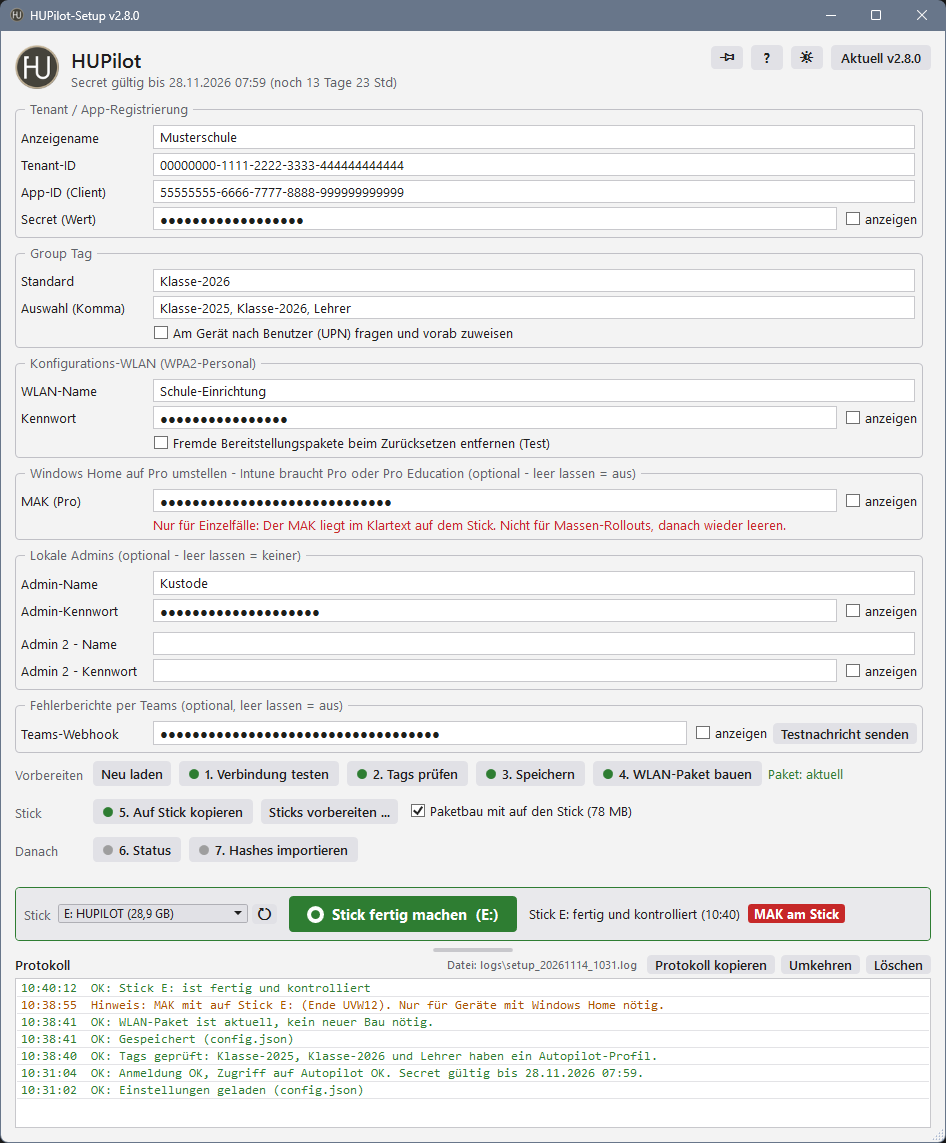
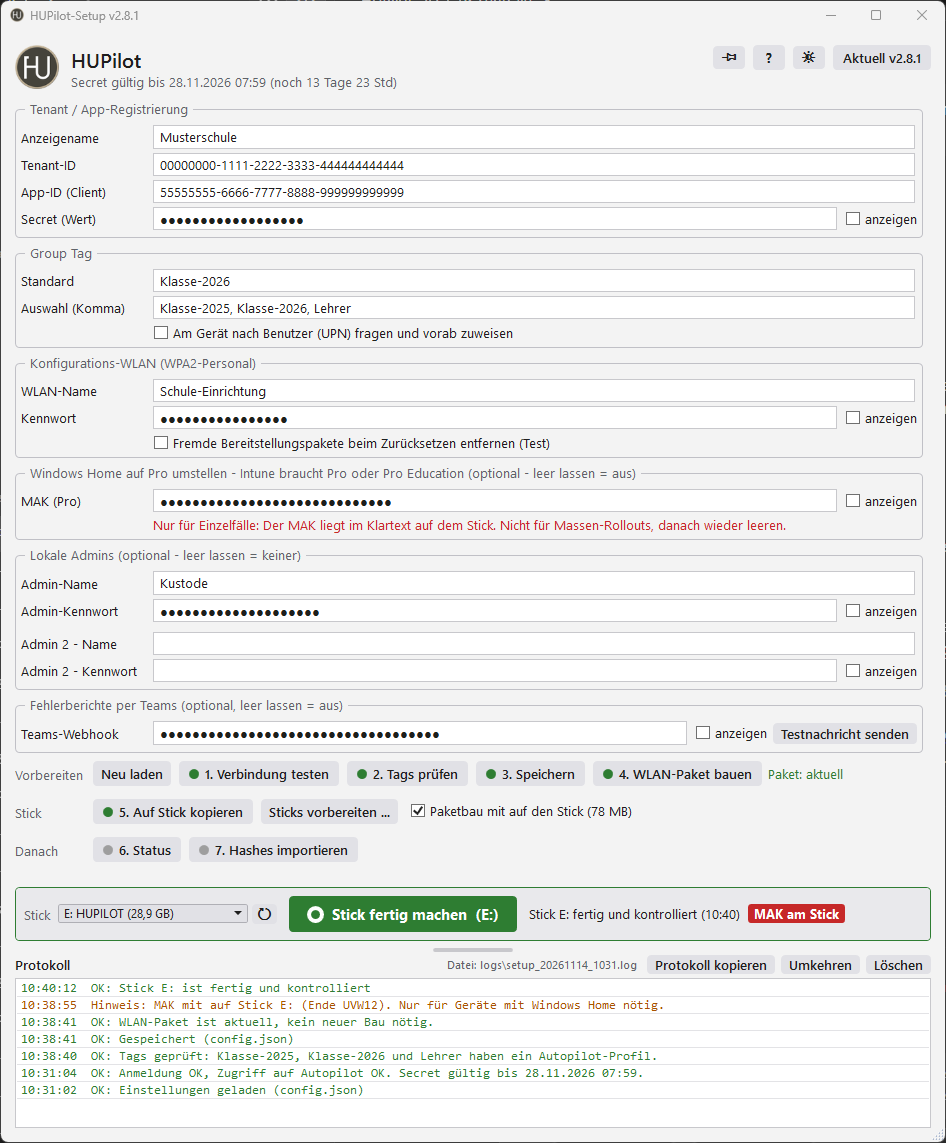
v2.8.1: Frisch registriert ist kein Problem, Stand heißt Kein Profil für diesen Group Tag (#26)
Frisch registrierte Geräte zeigen im Status "Wartet auf Profil" statt rot ein Problem, wenn der Eintrag im Stick-Protokoll höchstens 30 Minuten alt ist.
Der Stand heißt jetzt "Kein Profil für diesen Group Tag", ebenso die Meldungen am Gerät.
README, Anleitung und Bilder angeglichen. 495 automatische Tests.

Changed region(s): [[0.0, 0.0, 1.0, 0.0612]]

diff --git a/Stick/HUPilot/Setup/Anleitung.html b/Stick/HUPilot/Setup/Anleitung.html
@@ -231,7 +231,7 @@ code{background:var(--panel2);padding:1px 6px;border-radius:5px;font-size:13px}
 <table>
 <tr><th>Farbe</th><th>Bedeutung</th></tr>
 <tr><td><span class="c" style="background:#40a02b"></span>Grün</td><td>Upload fertig, Stick abziehen</td></tr>
-<tr><td><span class="c" style="background:#df8e1d"></span>Gelb</td><td>Netzteil fehlt (wartet), Akku-Stand nicht lesbar (Netzteil anstecken, <code>J</code> = übergehen), kein Profil für den Tag (<code>A</code> = abbrechen), noch kein Profil (weiter warten), <b>Hash gespeichert</b> (offline, später <i>7. Hashes importieren</i>), Hardware-Änderung (Rückfrage), abgebrochen mit einer Taste, nur hochladen: "PROFIL DA - JETZT STICK ABZIEHEN" bzw. "NEUSTART VON HAND", wenn der Stick nach 5 Minuten noch steckt</td></tr>
+<tr><td><span class="c" style="background:#df8e1d"></span>Gelb</td><td>Netzteil fehlt (wartet), Akku-Stand nicht lesbar (Netzteil anstecken, <code>J</code> = übergehen), kein Profil für den Group Tag (<code>A</code> = abbrechen), noch kein Profil (weiter warten), <b>Hash gespeichert</b> (offline, später <i>7. Hashes importieren</i>), Hardware-Änderung (Rückfrage), abgebrochen mit einer Taste, nur hochladen: "PROFIL DA - JETZT STICK ABZIEHEN" bzw. "NEUSTART VON HAND", wenn der Stick nach 5 Minuten noch steckt</td></tr>
 <tr><td><span class="c" style="background:#1e66f5"></span>Blau</td><td>Zurücksetzen startet (erst zum nächsten Gerät, wenn es neu startet, etwa 5 Minuten), Windows wird auf Pro umgestellt</td></tr>
 <tr><td><span class="c" style="background:#d20f39"></span>Rot</td><td>Fehler, <b>nichts</b> zurückgesetzt. Ursache und nächster Schritt stehen am Bildschirm, meist: nochmal <code>D:\go</code>. Bei "Gerät ist schon eingerichtet" nur mit <code>LÖSCHEN</code> (oder <code>LOESCHEN</code>) weiter. Ausnahme "ZURÜCKSETZEN NOCH NICHT BEGONNEN": Windows hat das Zurücksetzen angenommen, es hat nach 15 Minuten aber nicht begonnen und kann noch von selbst starten. Gerät nicht benutzen, am Strom lassen, noch 15 Minuten warten; startet es nicht neu: Foto an den Admin, <code>D:\diag</code>. Bricht das Hilfsprogramm zum Zurücksetzen mittendrin ab, nennt das rote Bild, was schon verändert wurde (z. B. Hersteller-Apps entfernt, Hersteller-Ordner nach <code>C:\Recovery\HUPilot-OEM-Backup</code> verschoben).</td></tr>
 </table>
@@ -258,7 +258,7 @@ code{background:var(--panel2);padding:1px 6px;border-radius:5px;font-size:13px}
 <tr><td><span class="c" style="background:#40a02b"></span>Fertig</td><td>Nichts, das Gerät ist fertig (in Intune angemeldet).</td></tr>
 <tr><td><span class="c" style="background:#df8e1d"></span>Wartet auf Profil</td><td>Nichts, läuft. Das Profil kommt meist in 5 bis 15 Minuten. Ist es nicht synchron: Autopilot-Sync anstoßen und ein paar Minuten warten.</td></tr>
 <tr><td><span class="c" style="background:#df8e1d"></span>Profil da, Gerät noch nicht angemeldet</td><td>Gerät einschalten, mit dem WLAN verbinden und neu starten, dann meldet es sich an. Steht in der Spalte Profil "zugew., Datum fehlt": Das Profil ist zugewiesen, das Datum von Microsoft fehlt noch. Gerät neu starten, kommt die Anmeldeseite der Schule, passt es.</td></tr>
-<tr><td><span class="c" style="background:#d20f39"></span>Kein Profil für diesen Tag</td><td>Tag prüfen (<i>2. Tags prüfen</i>) oder mit <i>Tag ändern</i> einen Tag mit Profil wählen.</td></tr>
+<tr><td><span class="c" style="background:#d20f39"></span>Kein Profil für diesen Group Tag</td><td>Tag prüfen (<i>2. Tags prüfen</i>) oder mit <i>Tag ändern</i> einen Tag mit Profil wählen.</td></tr>
 <tr><td><span class="c" style="background:#d20f39"></span>Fehler</td><td>Gerät in Intune prüfen, dann mit dem Stick neu zurücksetzen. Blockiert: Admin fragen.</td></tr>
 <tr><td><span class="c" style="background:#d20f39"></span>Hardware geändert</td><td>Das Gerät kam zum Beispiel mit neuem Mainboard zurück, Microsoft kann das nicht selbst lösen. Eintrag mit <i>Autopilot-Eintrag löschen ...</i> entfernen, dann mit dem Stick neu registrieren.</td></tr>
 <tr><td><span class="c" style="background:#df8e1d"></span>Hardware wird abgeglichen</td><td>Nach unserem Verständnis versucht Microsoft die Korrektur selbst (Microsoft beschreibt das nicht eindeutig), abwarten. Bleibt es länger so: Eintrag löschen und mit dem Stick neu registrieren.</td></tr>
@@ -293,7 +293,7 @@ code{background:var(--panel2);padding:1px 6px;border-radius:5px;font-size:13px}
 <tr><td>Gerät ist in einem anderen Tenant</td><td>beim anderen Tenant oder Händler aus Autopilot entfernen lassen</td></tr>
 <tr><td>Hängt bei "Kontoeinrichtung"</td><td>SkipUserStatusPage (siehe Intune), Gerät neu starten</td></tr>
 <tr><td>Gelb "HASH GESPEICHERT"</td><td>kein Internet oder Secret abgelaufen oder falsch: Hash liegt am Stick, Gerät nicht zurückgesetzt. Am PC <i>7. Hashes importieren</i>, danach Gerät nochmal mit <code>go</code> (wird dann nur zurückgesetzt).</td></tr>
-<tr><td>Gelb "KEIN Autopilot-Profil" für den Tag</td><td>dynamische Gruppe oder Profil für den Tag fehlt: <i>2. Tags prüfen</i>. Mit <b>A</b> abbrechen oder trotzdem hochladen.</td></tr>
+<tr><td>Gelb "KEIN Autopilot-Profil" für den Group Tag</td><td>dynamische Gruppe oder Profil für den Group Tag fehlt: <i>2. Tags prüfen</i>. Mit <b>A</b> abbrechen oder trotzdem hochladen.</td></tr>
 <tr><td>Gelb "NOCH KEIN PROFIL"</td><td>Microsoft hat das Profil noch nicht zugewiesen. Einfach weiter warten lassen (Enter oder nichts drücken). Im Setup im Status-Fenster nachsehen, ggf. <i>Autopilot-Sync anstoßen</i>.</td></tr>
 <tr><td>WLAN-Paket von Intune gesperrt (gelb)</td><td>Richtlinie <code>AllowAddProvisioningPackage = 0</code> am bereits eingerichteten Gerät: vorhandenes WLAN-Paket bleibt, neues (z. B. mit lokalem Admin) kommt nicht mit. Frische Geräte im Einrichtungsbildschirm betrifft das nicht.</td></tr>
 <tr><td>Fehler am Gerät</td><td><code>D:\diag</code> (Shift+F10 bzw. Admin-Eingabeaufforderung), Menü: Log, Fehler, Zurücksetzen, Gerät, Netzwerk, WLAN-Paket und Intune-Sperre. Jede Seite abfotografieren. <b>7</b> speichert alles in <code>HUPilot\logs\diag-Datum.txt</code> am Stick.</td></tr>

diff --git a/README.md b/README.md
@@ -31,7 +31,7 @@ Jedes Ende zeigt drei Sätze: was passiert ist, was jetzt passiert und was zu tu
 | Farbe | Bedeutung |
 |---|---|
 | Grün | Upload fertig, Stick abziehen |
-| Gelb | Netzteil fehlt, kein Profil für den Tag, noch kein Profil (weiter warten), **Hash gespeichert** (offline, später am PC hochladen) |
+| Gelb | Netzteil fehlt, kein Profil für den Group Tag, noch kein Profil (weiter warten), **Hash gespeichert** (offline, später am PC hochladen) |
 | Blau | Zurücksetzen startet, Windows wird auf Pro umgestellt |
 | Rot | Fehler, **nichts** zurückgesetzt. Ursache und nächster Schritt stehen am Bildschirm. Ausnahme "ZURÜCKSETZEN NOCH NICHT BEGONNEN": Windows hat das Zurücksetzen angenommen, es kann noch von selbst starten (Gerät nicht benutzen, am Strom lassen, 15 Minuten warten, sonst Foto an den Admin). Bricht das Hilfsprogramm zum Zurücksetzen mittendrin ab, nennt das Bild, was schon verändert wurde. Diagnose zum Abfotografieren: `D:\diag`. Mit eingetragenem Teams-Webhook geht ein Bericht an den Admin, ohne Internet bleibt er am Stick und wird später gesendet |
 
@@ -46,7 +46,7 @@ Neben dem Hauptknopf steht rot **MAK am Stick**, wenn auf dem gewählten Stick e
 
 ### Status
 
-Kacheln und Zeilen zeigen jeden Stand: Fertig, Wartet auf Profil, Profil da (noch nicht angemeldet), Kein Profil für diesen Tag, Fehler, Hardware geändert, Hardware wird abgeglichen, Doppelt und Wird gelöscht. Klick auf eine Kachel filtert. Dazu Details, Tag ändern, Autopilot-Sync anstoßen, CSV, Excel und Drucken.
+Kacheln und Zeilen zeigen jeden Stand: Fertig, Wartet auf Profil, Profil da (noch nicht angemeldet), Kein Profil für diesen Group Tag, Fehler, Hardware geändert, Hardware wird abgeglichen, Doppelt und Wird gelöscht. Klick auf eine Kachel filtert. Dazu Details, Tag ändern, Autopilot-Sync anstoßen, CSV, Excel und Drucken.
 
 <p align="center"><a href="Assets/screenshot-status.png"><img src="Assets/screenshot-status.png" width="800" alt="Status-Fenster mit jedem Stand und Was tun"/></a></p>
 

diff --git a/CHANGELOG.md b/CHANGELOG.md
@@ -1,5 +1,15 @@
 # Changelog
 
+## v2.8.1 - 2026-11-14
+### 📊 Status
+- **Frisch registriert ist kein Problem:** In den ersten Minuten nach dem Hochladen meldet Microsoft noch kein Profil. Der Status zeigte das rot als Problem.
+  - Steht das Gerät im Stick-Protokoll und ist der Eintrag höchstens 30 Minuten alt, heißt es jetzt "Wartet auf Profil" mit "Frisch registriert (vor ... Min)".
+  - Ohne Stick-Protokoll bleibt der rote Stand. "Was tun" nennt dort zuerst den harmlosen Fall: gerade registriert, 15 Minuten warten.
+- **Klarer Name:** Der Stand "Kein Profil für diesen Tag" heißt jetzt "Kein Profil für diesen Group Tag". Der alte Name las sich wie ein Kalendertag. Auch die Meldungen am Gerät sagen "Group Tag".
+
+### ✅ Qualität
+- 495 automatische Tests.
+
 ## v2.8.0 - 2026-11-14
 Stable-Release der Testversionen 2.7.18 bis 2.8.0 - "Ehrliche Meldungen, sicheres Formatieren".
 
